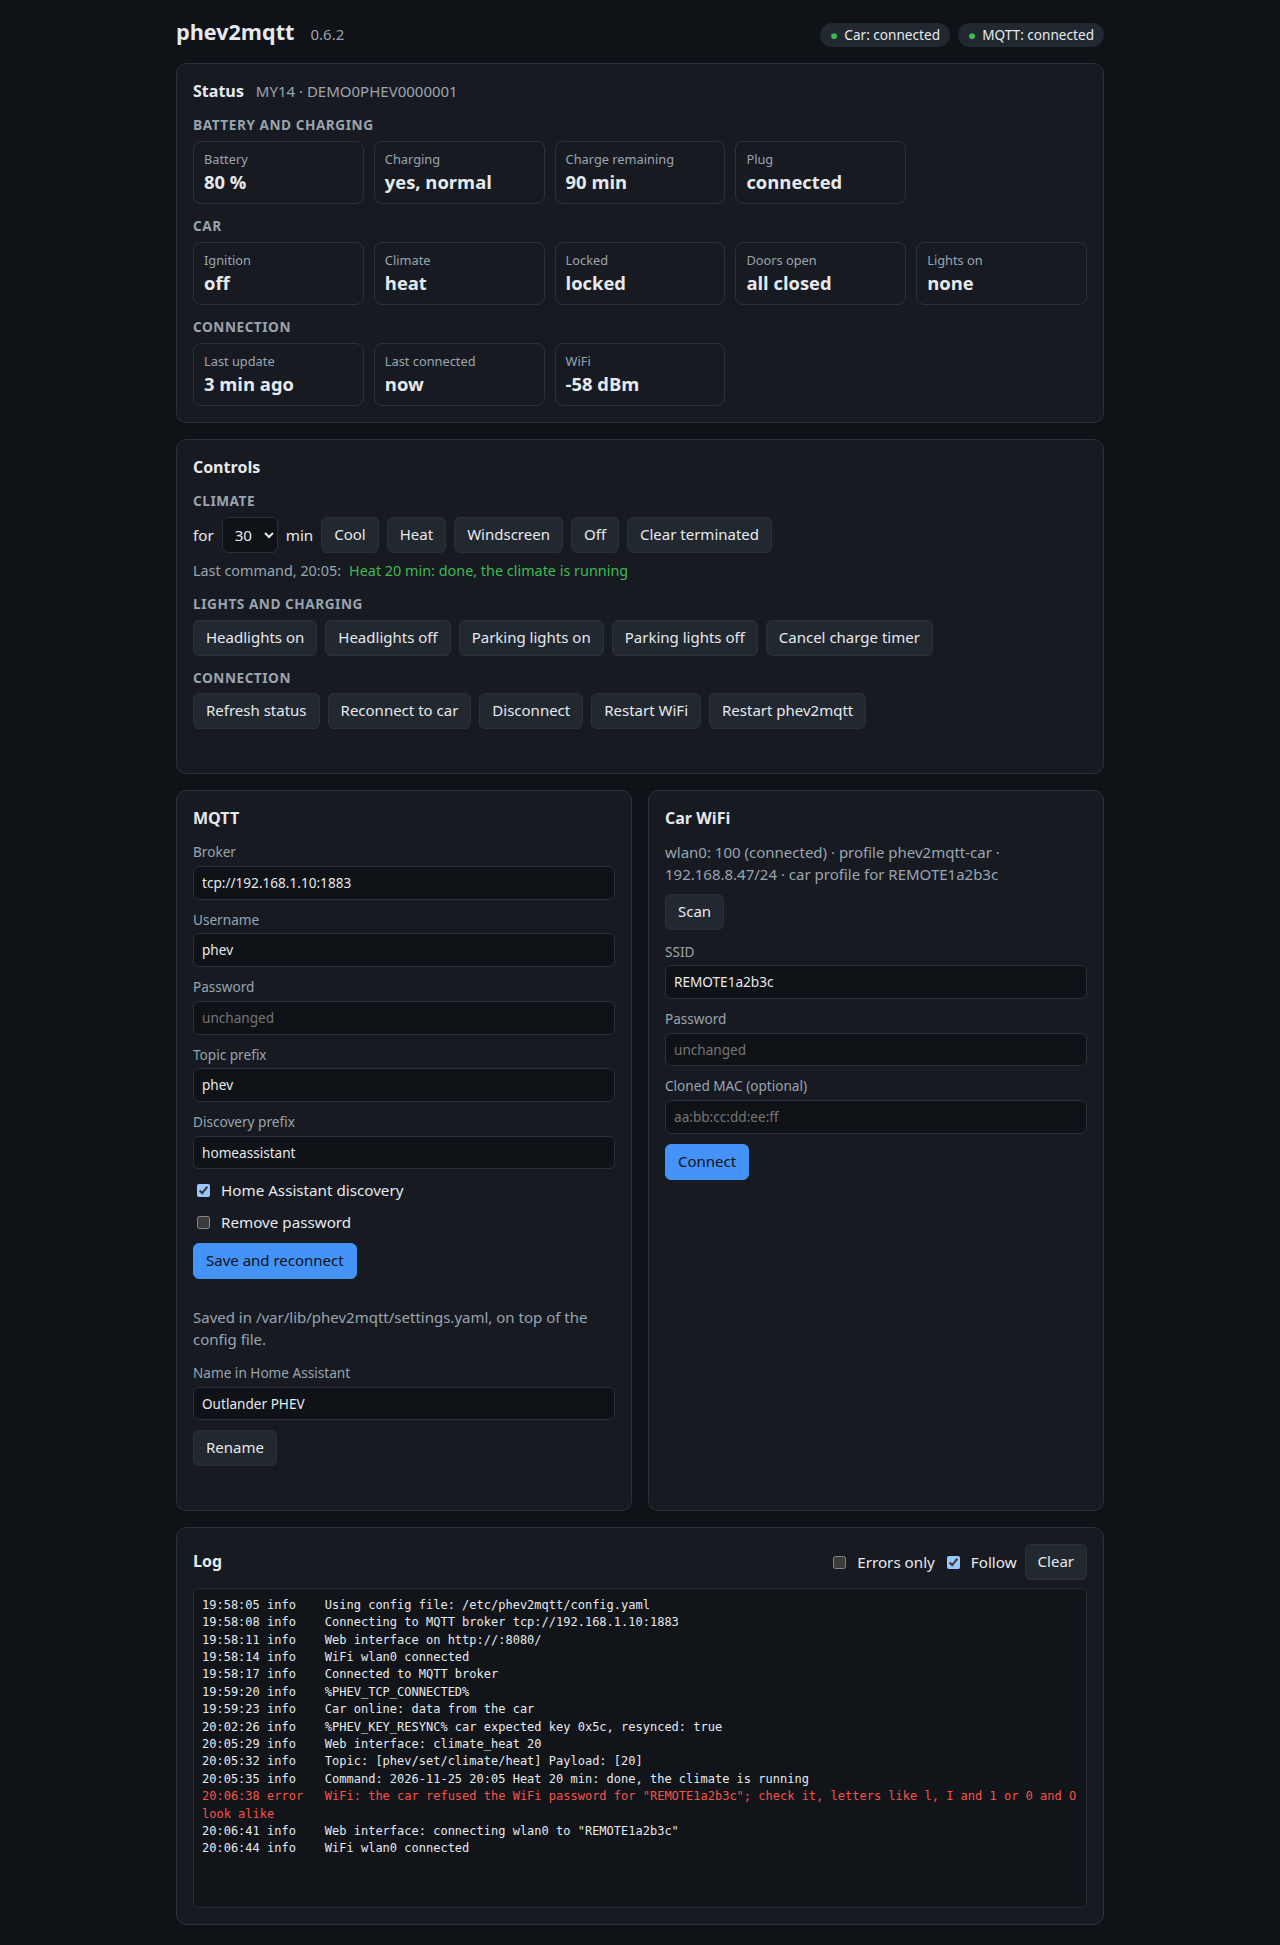
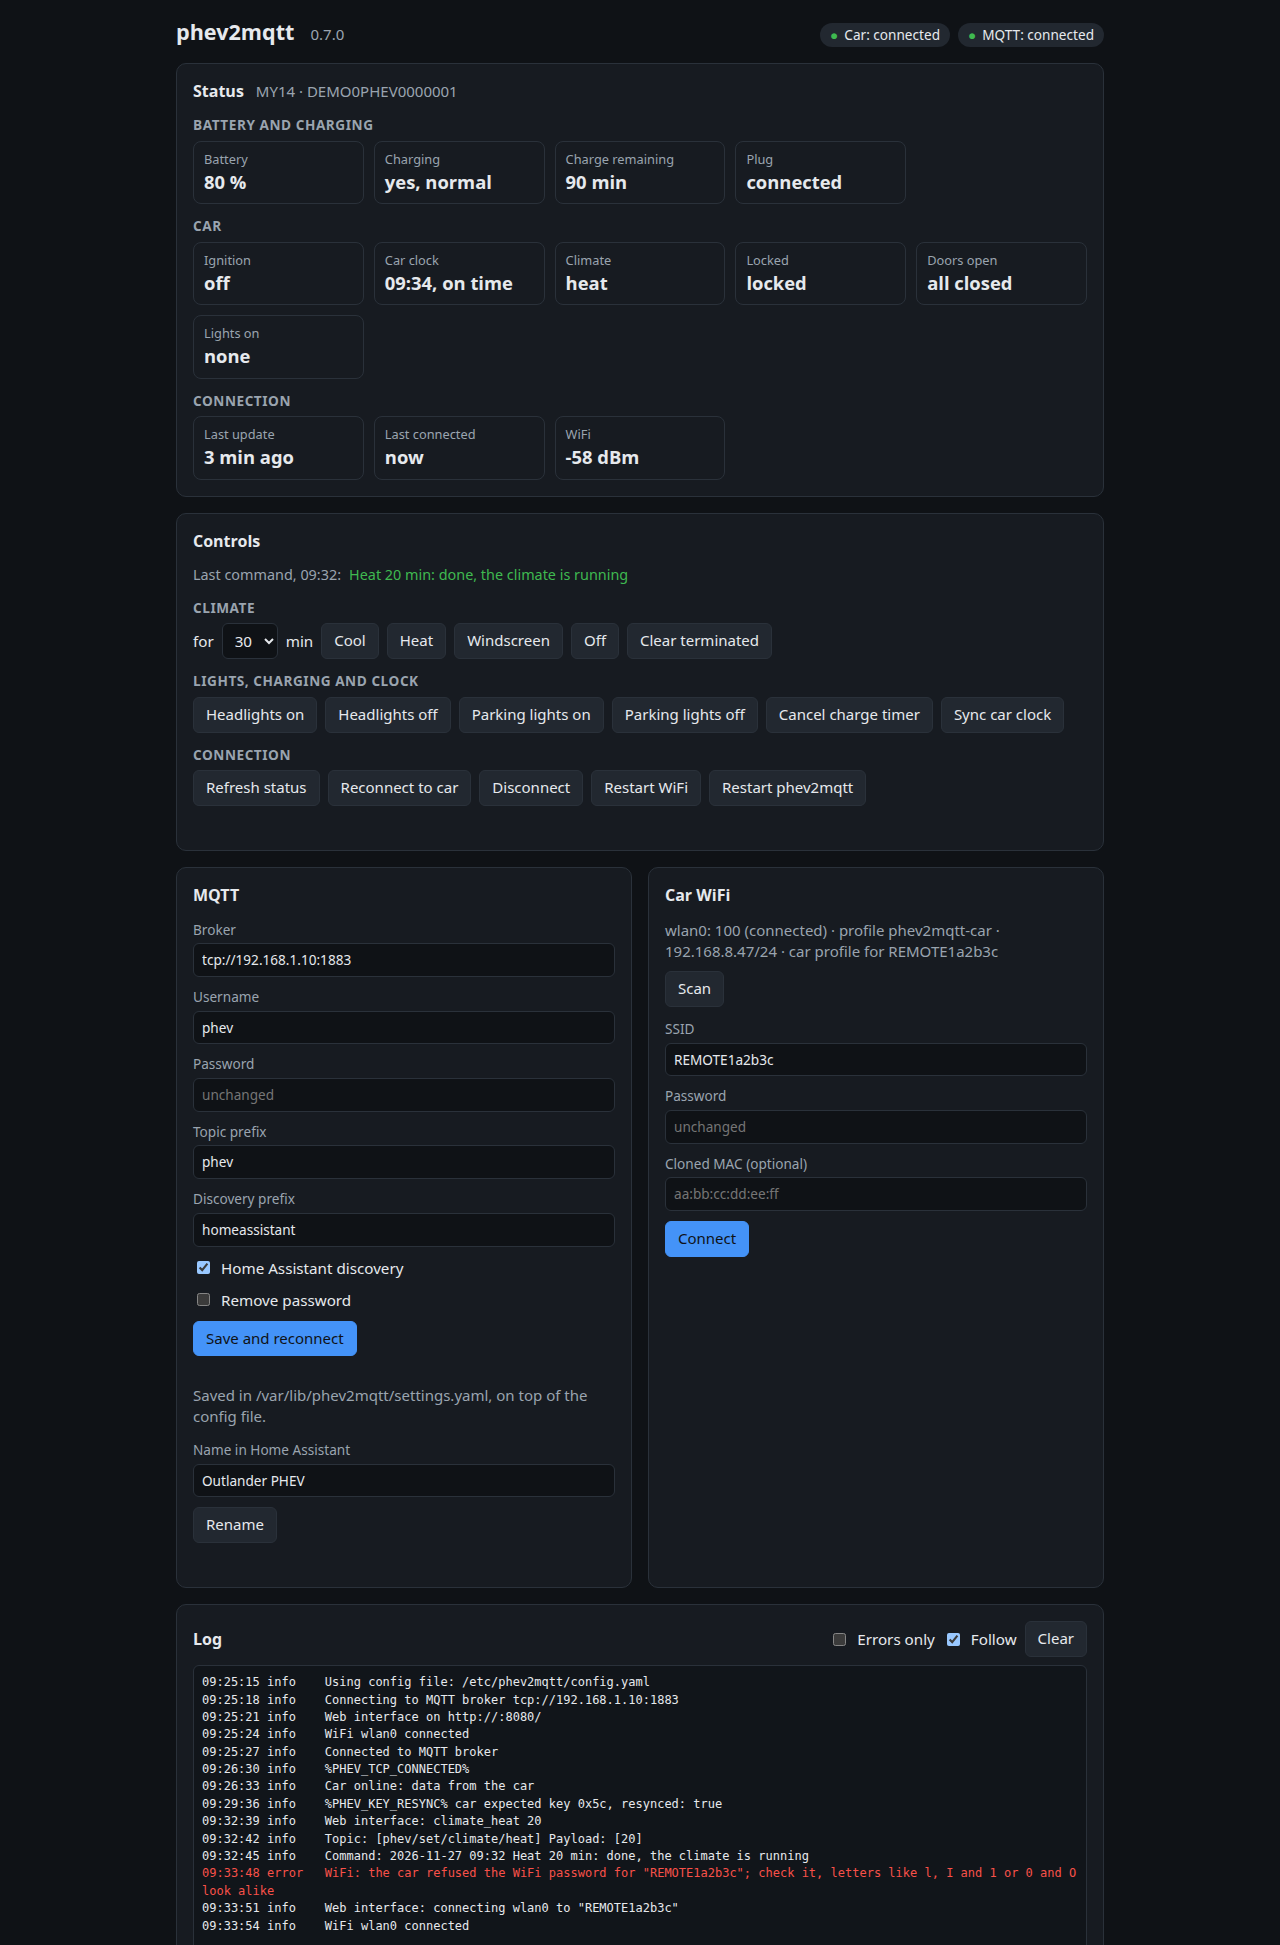
Every web button over MQTT and in Home Assistant; docs
New MQTT topics phev/set/refresh and phev/wifi/restart (the latter works
without the car), and Home Assistant buttons Refresh, Restart WiFi and
Clear Climate Terminated, so every web interface button can also be used
from MQTT and Home Assistant. README: the clock, the new topics; new
screenshots.

diff --git a/cmd/mqtt.go b/cmd/mqtt.go
@@ -125,6 +125,17 @@ func restartWifi(cmd *cobra.Command) error {
 
 // runWifiRestart runs wifi_restart_command. Never for longer than a minute:
 // a hanging command would otherwise stall the car loop.
+// wifiRestartTopic runs wifi_restart_command, like the web interface's
+// Restart WiFi button.
+const wifiRestartTopic = "/wifi/restart"
+
+// requestUpdate asks the car to send all its registers.
+func requestUpdate(phev *client.Client) {
+	if err := phev.SetRegister(0x6, []byte{0x3}); err != nil {
+		log.Infof("Error requesting update: %v", err)
+	}
+}
+
 func runWifiRestart() error {
 	restartCommand := cfgString("wifi_restart_command")
 	if restartCommand == "" {
@@ -258,7 +269,7 @@ func (m *mqttClient) connectMQTT() {
 	// (re)connection - a broker restart silently drops both.
 	onConnect := func(mqtt_client mqtt.Client) {
 		log.Info("Connected to MQTT broker")
-		topics := []string{m.topic("/connection"), m.topic("/restart"), m.topic("/settings/#"), m.haStatusTopic()}
+		topics := []string{m.topic("/connection"), m.topic("/restart"), m.topic(wifiRestartTopic), m.topic("/settings/#"), m.haStatusTopic()}
 		if !disableSet {
 			topics = append(topics, m.topic("/set/#"))
 		}
@@ -444,7 +455,7 @@ func (m *mqttClient) handleIncomingMqtt(mqtt_client mqtt.Client, msg mqtt.Messag
 	// it on every connection attempt.
 	phev := m.state.car()
 	haStatus := m.haStatusTopic()
-	if phev == nil && msg.Topic() != haStatus && msg.Topic() != m.topic("/connection") && msg.Topic() != m.topic("/restart") {
+	if phev == nil && msg.Topic() != haStatus && msg.Topic() != m.topic("/connection") && msg.Topic() != m.topic("/restart") && msg.Topic() != m.topic(wifiRestartTopic) {
 		log.Infof("Not connected to the car yet, ignoring [%s]", msg.Topic())
 		return
 	}
@@ -468,6 +479,22 @@ func (m *mqttClient) handleIncomingMqtt(mqtt_client mqtt.Client, msg mqtt.Messag
 		}
 		// Not in this callback: restart waits for the broker.
 		go m.restart()
+	} else if msg.Topic() == m.topic(wifiRestartTopic) {
+		// Works without the car: that is when it is needed.
+		if msg.Retained() {
+			log.Warnf("Ignoring retained [%s]; clear it on the broker", msg.Topic())
+			return
+		}
+		go func() {
+			if err := runWifiRestart(); err != nil {
+				log.Errorf("Error restarting wifi: %v", err)
+			}
+		}()
+	} else if msg.Topic() == m.topic("/set/refresh") {
+		if msg.Retained() {
+			return
+		}
+		go requestUpdate(phev)
 	} else if strings.HasPrefix(msg.Topic(), m.topic("/set/register/")) {
 		// Strip the prefix instead of splitting the whole topic: the prefix
 		// itself may contain slashes (e.g. "home/phev").
@@ -1244,6 +1271,49 @@ func (m *mqttClient) publishHomeAssistantDiscovery(vin, topic string) {
 		"payload_press": "restart",
 		"entity_category": "config",
 		"unique_id": "__VIN___restart",
+		"dev": {
+			"name": "__DEVICE__",
+			"identifiers": ["phev-__VIN__"],
+			"manufacturer": "Mitsubishi",
+			"model": "Outlander PHEV"
+		},
+		"~": "__TOPIC__"}`,
+		"%s/button/%s_restart_wifi_interface/config": `{
+		"name": "Restart WiFi",
+		"icon": "mdi:wifi-refresh",
+		"command_topic": "~/wifi/restart",
+		"entity_category": "config",
+		"avty_t": "~/gateway/available",
+		"unique_id": "__VIN___restart_wifi_interface",
+		"dev": {
+			"name": "__DEVICE__",
+			"identifiers": ["phev-__VIN__"],
+			"manufacturer": "Mitsubishi",
+			"model": "Outlander PHEV"
+		},
+		"~": "__TOPIC__"}`,
+		"%s/button/%s_refresh/config": `{
+		"name": "Refresh",
+		"icon": "mdi:refresh",
+		"command_topic": "~/set/refresh",
+		"availability": [{"topic": "~/gateway/available"}, {"topic": "~/available"}],
+		"availability_mode": "all",
+		"unique_id": "__VIN___refresh",
+		"dev": {
+			"name": "__DEVICE__",
+			"identifiers": ["phev-__VIN__"],
+			"manufacturer": "Mitsubishi",
+			"model": "Outlander PHEV"
+		},
+		"~": "__TOPIC__"}`,
+		"%s/button/%s_climate_clear_terminated/config": `{
+		"name": "Clear Climate Terminated",
+		"icon": "mdi:fan-alert",
+		"command_topic": "~/set/climate/state",
+		"payload_press": "reset",
+		"availability": [{"topic": "~/gateway/available"}, {"topic": "~/available"}],
+		"availability_mode": "all",
+		"unique_id": "__VIN___climate_clear_terminated",
 		"dev": {
 			"name": "__DEVICE__",
 			"identifiers": ["phev-__VIN__"],

diff --git a/cmd/commands_test.go b/cmd/commands_test.go
@@ -1,6 +1,7 @@
 package cmd
 
 import (
+	"os"
 	"strings"
 	"testing"
 	"time"
@@ -105,6 +106,41 @@ func TestSyncClockFromMQTT(t *testing.T) {
 		}
 		if r := b.get("phev/command/result"); (r != "") != on {
 			t.Errorf("extra_commands %v: result %q", on, r)
+		}
+	}
+}
+
+// The WiFi restart works over MQTT without the car, like the web button.
+func TestWifiRestartFromMQTT(t *testing.T) {
+	marker := t.TempDir() + "/ran"
+	setConfig(t, "wifi_restart_command", "touch "+marker)
+	m, _ := newTestClient("phev")
+	m.handleIncomingMqtt(nil, fakeMessage{"phev/wifi/restart", ""})
+	deadline := time.Now().Add(5 * time.Second)
+	for {
+		if _, err := os.Stat(marker); err == nil {
+			return
+		}
+		if time.Now().After(deadline) {
+			t.Fatal("wifi_restart_command did not run")
+		}
+		time.Sleep(20 * time.Millisecond)
+	}
+}
+
+// Every button the web interface has is also in Home Assistant discovery.
+func TestWebCommandsInDiscovery(t *testing.T) {
+	m, b := newTestClient("phev")
+	m.extraSensors, m.climateGuard, m.extraCommands = true, true, true
+	m.publishHomeAssistantDiscovery("VIN123", "phev")
+	var all strings.Builder
+	for _, p := range b.published {
+		all.WriteString(p)
+	}
+	for _, topic := range []string{"~/set/refresh", "~/wifi/restart", "~/set/climate/state", "~/set/sync_clock",
+		"~/set/headlights", "~/set/parkinglights", "~/set/cancelchargetimer", "~/connection", "~/restart"} {
+		if !strings.Contains(all.String(), `"command_topic": "`+topic+`"`) {
+			t.Errorf("no Home Assistant entity for %s", topic)
 		}
 	}
 }

diff --git a/docs/screenshot-server.py b/docs/screenshot-server.py
@@ -31,7 +31,7 @@ STATE = {
         "/command/result": local(cmd_at) + " Heat 20 min: done, the climate is running",
     },
     "mqtt_connected": True, "mqtt_server": "tcp://192.168.1.10:1883",
-    "version": "0.6.2", "build": "0.6.2", "climate_guard": True, "extra_commands": True,
+    "version": "0.7.0", "build": "0.7.0", "climate_guard": True, "extra_commands": True,
 }
 LOG = [(-9, "info", "Using config file: /etc/phev2mqtt/config.yaml"),
        (-9, "info", "Connecting to MQTT broker tcp://192.168.1.10:1883"),

diff --git a/cmd/web.go b/cmd/web.go
@@ -253,11 +253,7 @@ func (ws *webServer) command(w http.ResponseWriter, r *http.Request) {
 			writeError(w, http.StatusConflict, errors.New("not connected to the car"))
 			return
 		}
-		go func() {
-			if err := phev.SetRegister(0x6, []byte{0x3}); err != nil {
-				log.Infof("Error requesting update: %v", err)
-			}
-		}()
+		go requestUpdate(phev)
 	case "restart":
 		log.Info("Web interface: restart")
 		go func() {

diff --git a/CLAUDE.md b/CLAUDE.md
@@ -35,7 +35,7 @@ CI (`.github/workflows/build.yaml`) vets, tests, builds linux amd64/arm64/armv6/
   - The car's WiFi state comes from netlink link events (`wifilink_linux.go`) and the signal from `/proc/net/wireless`, read only on those events and on the existing `update_interval` tick: new status features must not add polling or timers. Published retained under `phev/wifi/` and `phev/connection/`.
   - Restart (`phev/restart`, web button, HA button) re-execs the binary in place (`restart_unix.go`) after closing the car connection; retained `phev/restart` messages are ignored to avoid restart loops.
   - HA discovery entity names carry no device prefix (HA prepends the device name); the device name is `ha_device_name` (default `PHEV <VIN>`), renamable from the web interface without reconnecting. Keep `unique_id`s stable when renaming entities.
-  - Web interface (`web.go`, single embedded `web/index.html`, `weblog.go` log ring buffer, `wifi.go` NetworkManager via `nmcli`) is off unless `web_listen` is set. It refuses a non-loopback address without `web_password` unless `web_auth: false`; `web_password` and `web_auth` are config-file-only on purpose (not flags, so the password stays out of the process list). Non-GET requests must carry `X-Requested-With: phev2mqtt` (CSRF guard). Raw register setting is deliberately not exposed in the web UI. The README screenshots (`docs/web-interface-{light,dark}.png`) come from `docs/screenshot-server.py`, which serves `index.html` with made-up data; never screenshot the real car (its VIN and SSID).
+  - Web interface (`web.go`, single embedded `web/index.html`, `weblog.go` log ring buffer, `wifi.go` NetworkManager via `nmcli`) is off unless `web_listen` is set. It refuses a non-loopback address without `web_password` unless `web_auth: false`; `web_password` and `web_auth` are config-file-only on purpose (not flags, so the password stays out of the process list). Non-GET requests must carry `X-Requested-With: phev2mqtt` (CSRF guard). Raw register setting is deliberately not exposed in the web UI. Every web button also has an MQTT topic and a Home Assistant button (`TestWebCommandsInDiscovery`); keep it that way. The README screenshots (`docs/web-interface-{light,dark}.png`) come from `docs/screenshot-server.py`, which serves `index.html` with made-up data; never screenshot the real car (its VIN and SSID).
   - Optional features ported from corautem/phev2mqtt (PHEV Link code from before it went proprietary; keep the credits in README and file headers), all off by default: `extra_sensors` (`protocol.StatusTracker`, `cmd/mqtt_extra.go`; entities are removed with empty discovery configs when off, retired ones always), `key_resync` (`client.KeyResyncOption`, `SecurityKey.ResyncSend`), `climate_guard` (`cmd/climate_guard.go`: echoes the car's 0x22/0x19 on MY14, refuses while switched on or quick charging, confirms only from registers sent after the command, result in `phev/command/result`), `extra_commands` (`cmd/commands.go`: Sync Car Clock writes 0x05 and checks the clock the car reports afterwards; its HA buttons are `extraSensor`s with component `button`).
 - **`packaging/`** – nfpm `.deb`: hardened systemd unit running as user `phev2mqtt`, `/etc/phev2mqtt/config.yaml` (root:phev2mqtt 640, a conffile), polkit rule letting only that service manage NetworkManager WiFi. The service cannot `sudo`; it may run `ip link` (default `wifi_restart_command`). Keep `packaging/config.yaml` comments in sync with new flags.
 - **`addon/`** – legacy Home Assistant add-on that clones and builds upstream, not this repo.

diff --git a/README.md b/README.md
@@ -16,11 +16,13 @@ over the car's own WiFi. A fork of [buxtronix/phev2mqtt](https://github.com/buxt
  * Pre-heats or cools the car, switches the lights and cancels the charge timer;
    optionally like the official app, keeping the car's own climate timers and reporting
    whether the climate really started (`climate_guard`)
+ * Shows how far the car's clock is off, and sets it with a button (`extra_commands`)
  * Optionally recovers from the car rejecting the encryption without reconnecting
    (`key_resync`)
  * Tells you whether the car is connected, how strong its WiFi is, and when it last
    connected
- * Has a web interface for the status, the controls, the setup and the log
+ * Has a web interface for the status, the controls, the setup and the log; every button
+   in it is also a Home Assistant button and an MQTT topic
 
 Tested on an Outlander PHEV MY14 and MY18 and an Eclipse Cross (2022).
 
@@ -143,9 +145,12 @@ Commands:
 | phev/set/climate/mode | *off* |
 | phev/set/headlights, parkinglights | *on* or *off* |
 | phev/set/cancelchargetimer | Anything |
+| phev/set/climate/state | *reset*: clears the *terminated* climate state |
+| phev/set/refresh | Anything: asks the car for all its values now |
 | phev/set/sync_clock | With `extra_commands`: anything, sets the car's clock to the gateway's |
 | phev/connection | *on*, *off* or *restart* (reconnect to the car) |
 | phev/restart | Anything: restarts phev2mqtt |
+| phev/wifi/restart | Anything: runs `wifi_restart_command`, also without the car |
 | phev/set/register/[register] | A raw register value, in hex |
 
 </details>
